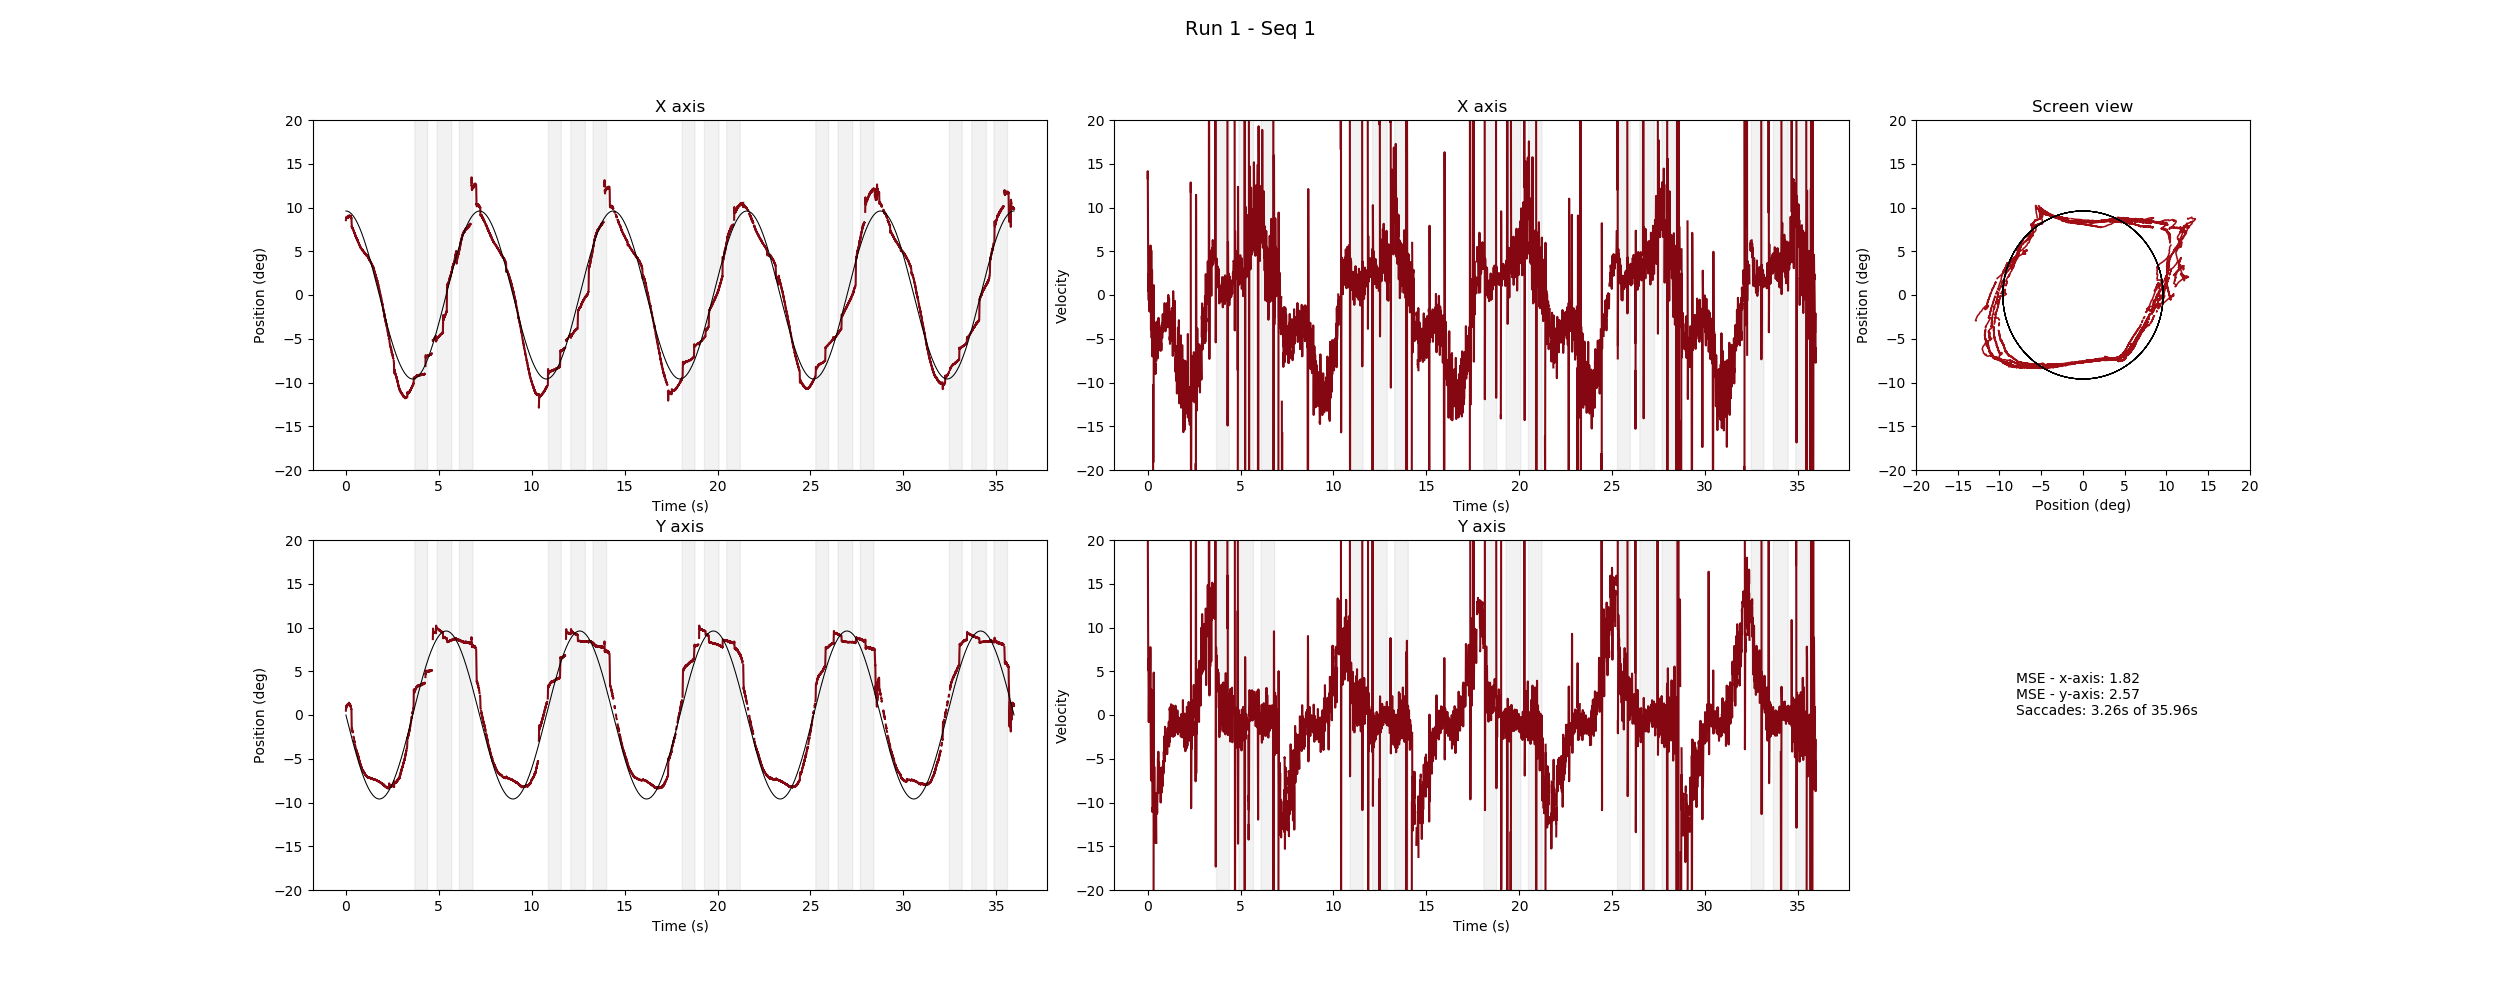
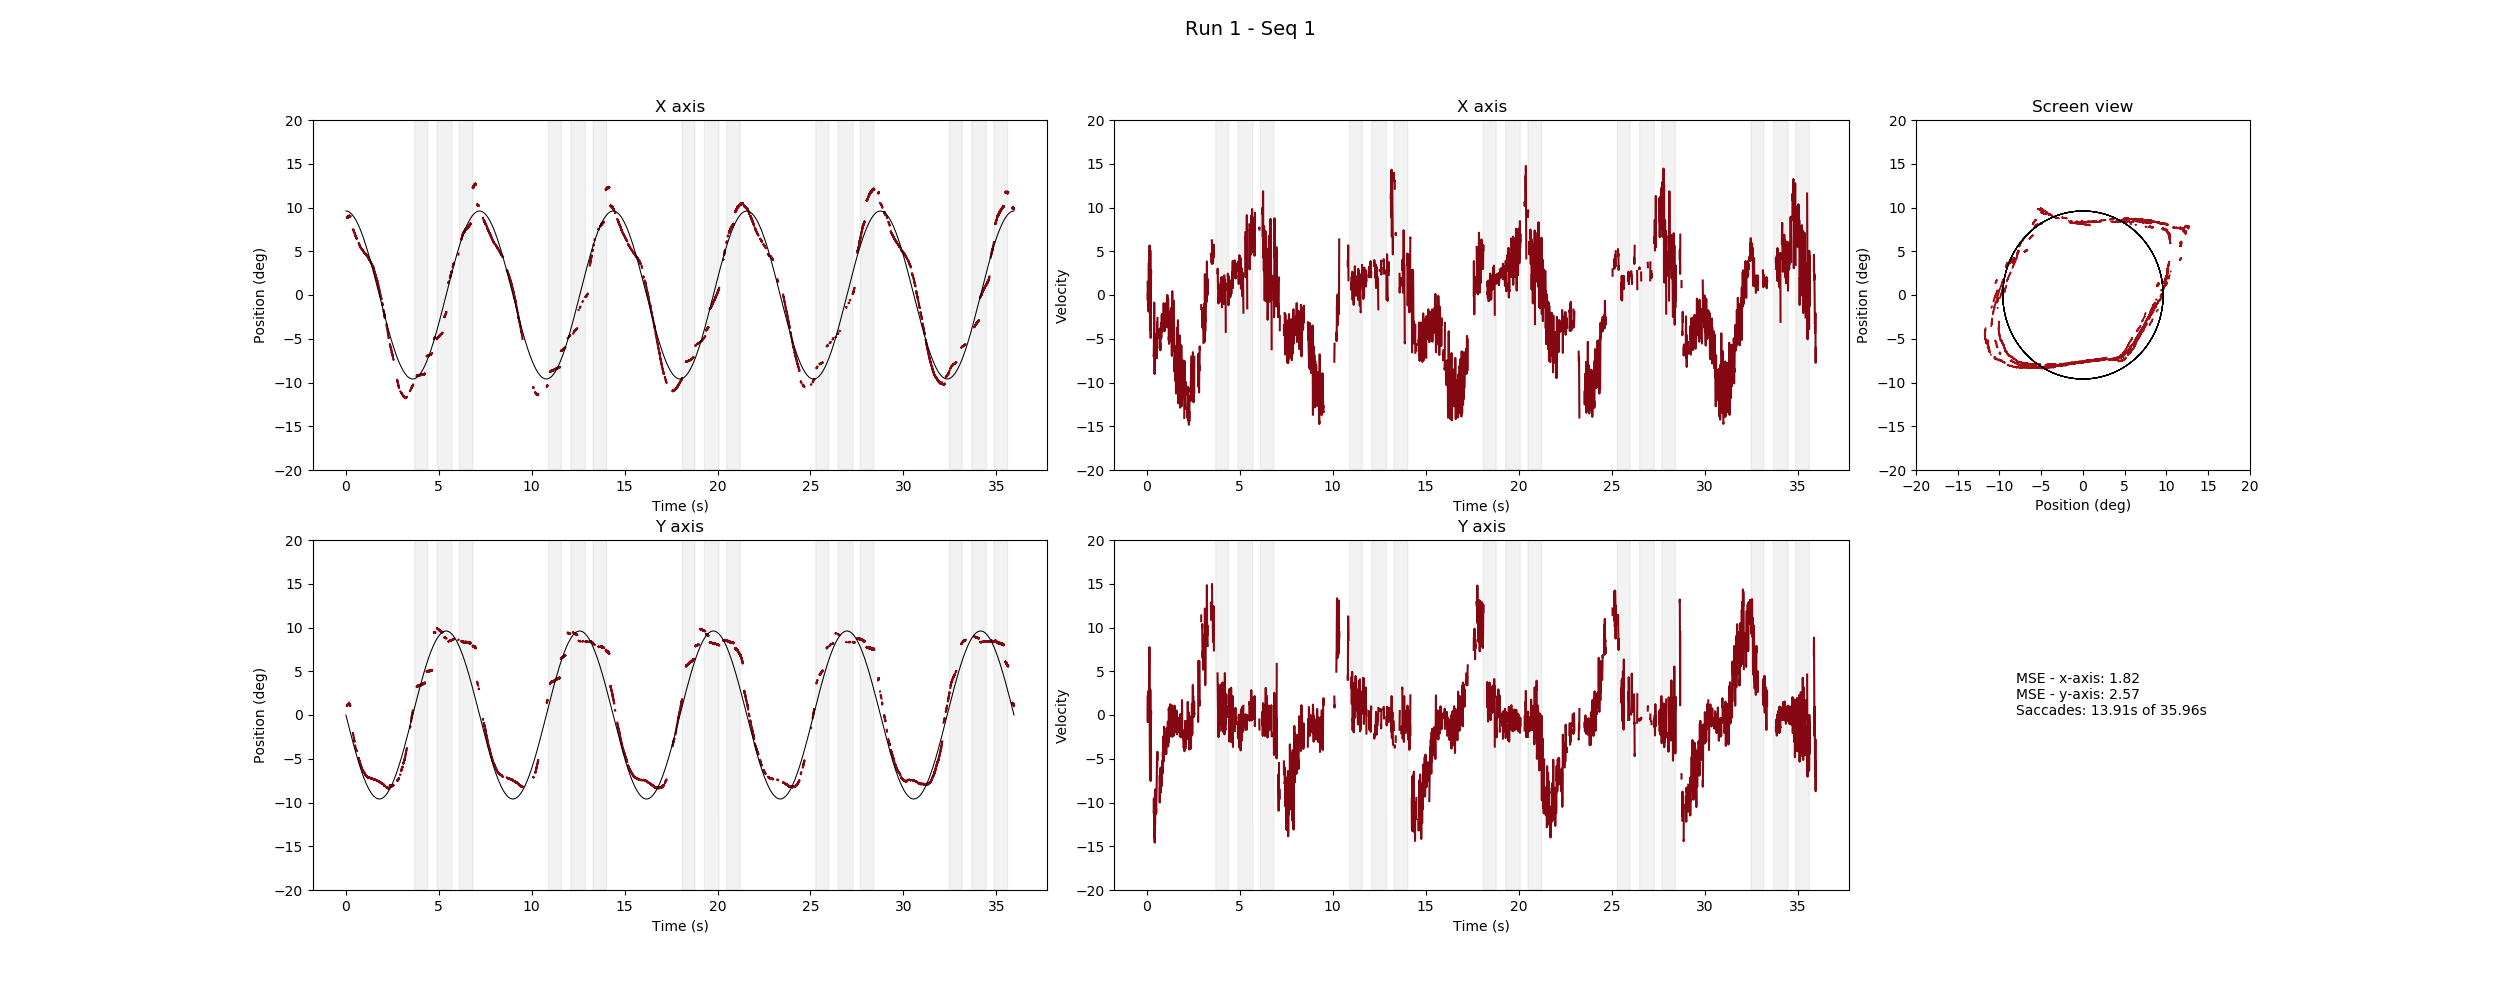
update plot_eye_traces

diff --git a/stats/behav_analysis/plot_eye_traces_pur_seq.py b/stats/behav_analysis/plot_eye_traces_pur_seq.py
@@ -78,7 +78,10 @@ time_start_trial = np.array(h5_file['{folder_alias}/time_start_trial'.format(fol
 time_end_trial = np.array(h5_file['{folder_alias}/time_end_trial'.format(folder_alias = folder_alias)])
 dir_sequence = np.array(h5_file['{folder_alias}/dir_sequence'.format(folder_alias = folder_alias)])
 dir_sequence = np.tile(dir_sequence,2)
-eye_data = np.array(h5_file['{folder_alias}/eye_data_seqs_nan_blink'.format(folder_alias = folder_alias)])
+
+eye_data = np.array(h5_file['{folder_alias}/eye_data_seqs'.format(folder_alias = folder_alias)])
+eye_data_nan = np.array(h5_file['{folder_alias}/eye_data_seqs_nan_blink'.format(folder_alias = folder_alias)])
+
 occlusion_data = scipy.io.loadmat('{exp_dir}/data/{sub}/add//{sub}_task_occlusion_size.mat'.format(exp_dir = main_dir, sub = subject))
 occlusion_data = occlusion_data['occlusion']['occl_color_mat'][0][[1,3]]
 # Define colors
@@ -114,8 +117,8 @@ sacc_params = {
         'mindur': 5,
         'maxdur': 100,
         'minsep': 5,
-        'before_sacc': 50,
-        'after_sacc': 50
+        'before_sacc': 10,
+        'after_sacc': 25
 }
 # default:
 #     'mindur': 5,
@@ -182,16 +185,24 @@ for run in runs:
 
         velocity_deg_y = A.velocity_deg(data_x = eye_data[data_logic,2],
                             filt = 'position', cutoff = 30, sample_rate = 1000)
-
-        misac = A.detec_misac(velocity_x = velocity_deg_x,
-                                velocity_y = velocity_deg_y,
-                                t_0        = eye_data[data_logic,0][0],
+        
+        misac = []
+        idx = np.round(np.linspace(0,velocity_deg_y.shape[0],35)).astype(int)
+        for i in range(len(idx[:-1])):
+            misac_tmp = A.detec_misac(velocity_x = velocity_deg_x[idx[i]:idx[i+1]],
+                                velocity_y = velocity_deg_y[idx[i]:idx[i+1]],
+                                t_0        = eye_data[data_logic,0][idx[i]],
                                 VFAC       = 5,
                                 mindur     = sacc_params['mindur'],
                                 maxdur     = sacc_params['maxdur'],
                                 minsep     = sacc_params['minsep'])
+            misac.extend(misac_tmp)
 
-        new_saccades = [[x[0]-sacc_params['before_sacc'],x[1]-sacc_params['after_sacc']] for x in misac]
+        new_saccades = [[x[0]-sacc_params['before_sacc'],x[1]+sacc_params['after_sacc']] for x in misac]
+
+        idx = np.array(np.where((np.abs(velocity_deg_x) > 15) | (np.abs(velocity_deg_y) > 15))).T
+        forced_sac = [[eye_data[data_logic,0][i[0]]-sacc_params['before_sacc'],eye_data[data_logic,0][i[0]]+sacc_params['after_sacc']] for i in idx]
+        new_saccades.extend(forced_sac)
 
         velocity_x_NAN = velocity_deg_x
         velocity_y_NAN = velocity_deg_y
